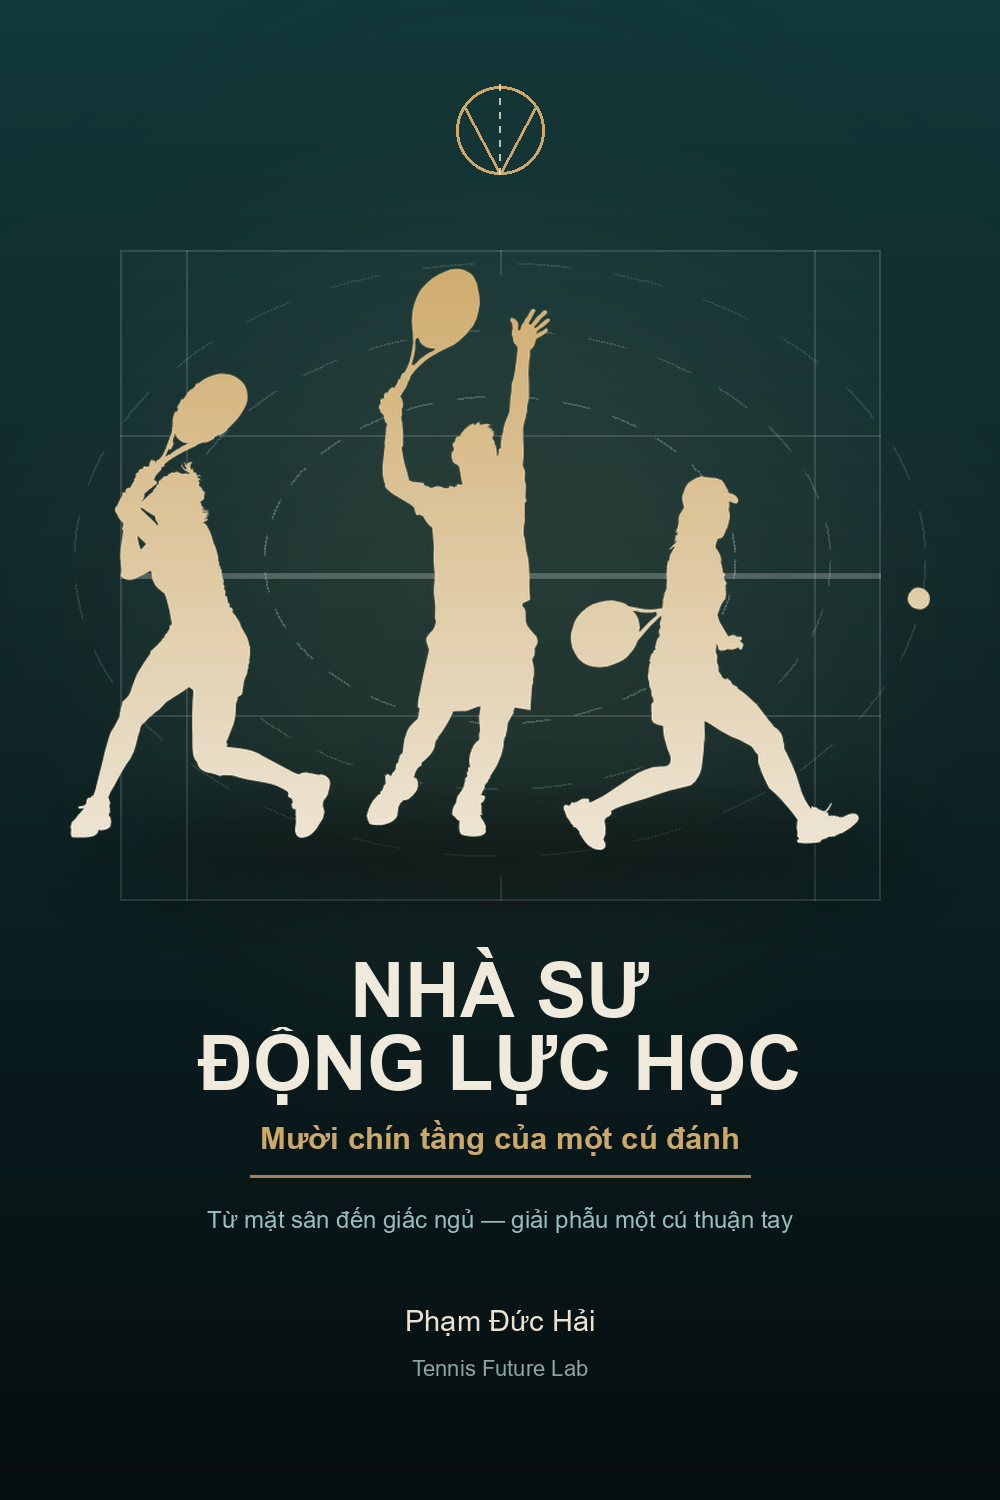
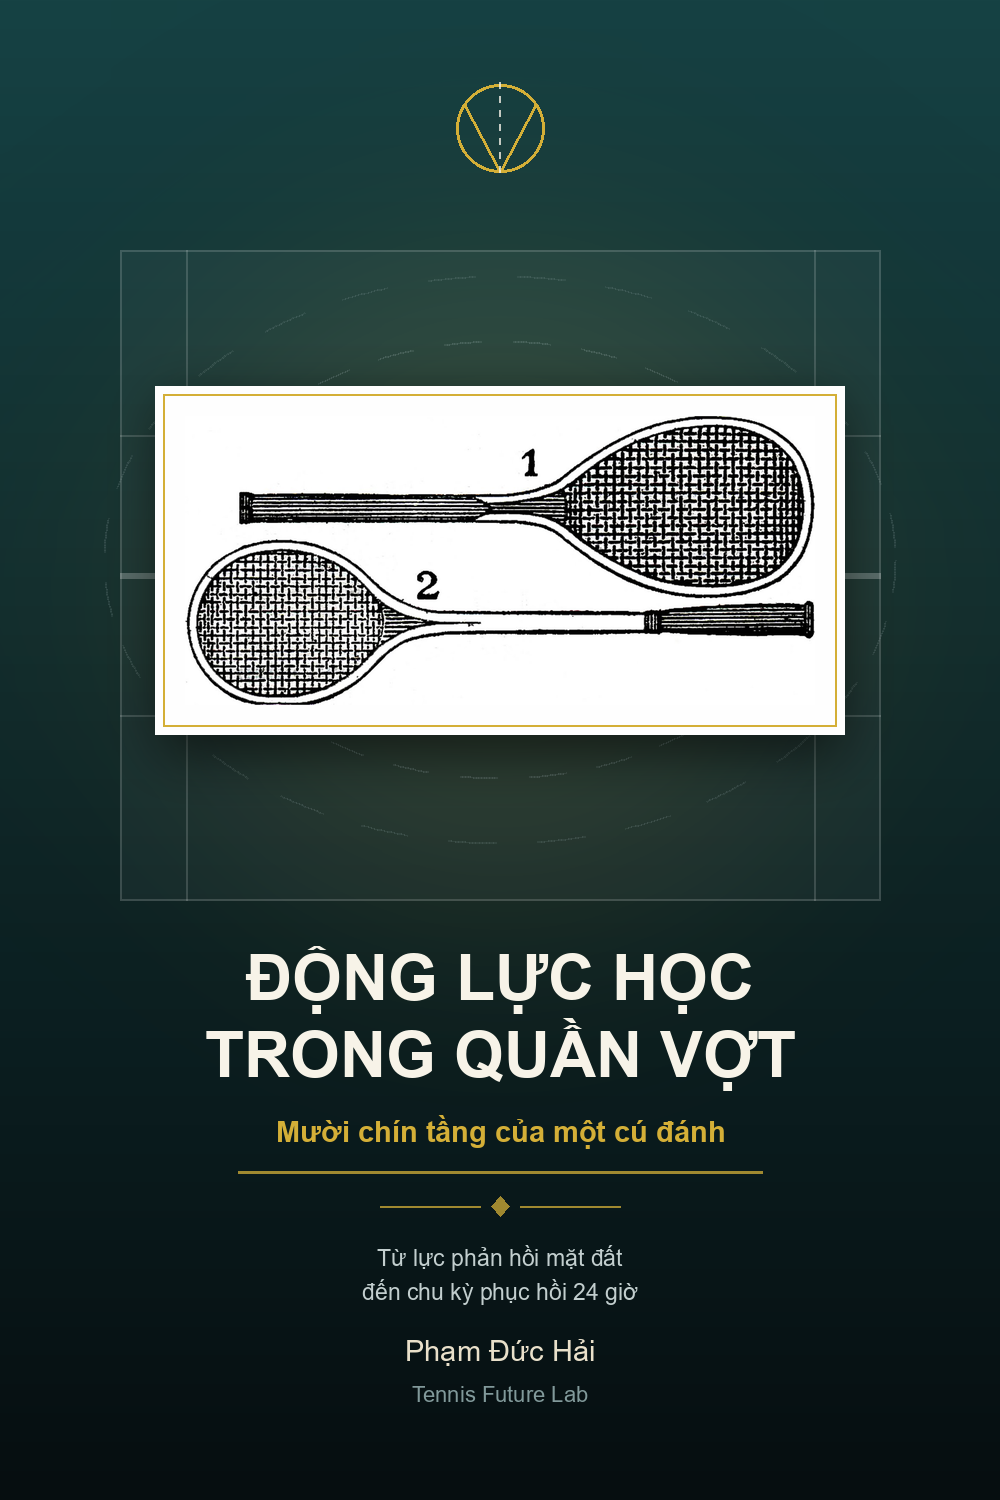
Retitle #100 to 'Động Lực Học Trong Quần Vợt' + its own cover
The old title 'Nhà Sư Động Lực Học' was disliked. The display title is now
'Động Lực Học Trong Quần Vợt: Mười Chín Tầng Của Một Cú Đánh' in the <title>,
meta description, cover alt text, h1 and footer signature, and on the index
card. The 'nhà sư' metaphor stays in the body (glossary, Ch.15) because it is
content rather than the title; the slug and PDF filename are unchanged so no
existing link breaks.

Cover: a numbered racket study plate replaces the shared series clipart —
Tennis_Rackets_GraphicsFairy.jpg, The Graphics Fairy (public domain).

diff --git a/vi/books/index.html b/vi/books/index.html
@@ -954,7 +954,7 @@ inline-free rules.  Desktop (>860 px) is untouched.
         <h2 style="color: var(--primary); margin: 0; font-family: var(--font-heading); font-size: 1.85rem;">📚 Tủ Sách Chuyên Khảo Tennis Future Lab (4 Tác Phẩm)</h2>
         <span style="font-size: 0.88rem; color: #5b6572; font-weight: 600;">Bản Thảo Gốc · Biên Soạn Việt Ngữ · 4/4 Toàn Văn</span>
     </div>
-    <p style="margin: 0.9rem 0 0; color: #5b6572; font-size: 0.92rem; max-width: 78ch;">Bốn cuốn này không phải bản dịch. Chúng được viết trực tiếp bằng tiếng Việt, xuất phát từ một câu hỏi chung: nếu đã đọc hết thư viện tennis thế giới rồi, thì còn chỗ nào để nghĩ tiếp? <strong>Động Lực Học Không Gian</strong> đọc sân đấu như một trường xác suất — hình học phân giác, cửa sổ thời gian, sinh thái học chuyển động. <strong>Sân Thống Nhất</strong> đi theo hướng ngược lại, từ khoa học sống trở về nghệ thuật chơi. <strong>Thái Cực Quyền Ứng Dụng</strong> lấy nguyên lý nội gia để giải lại bài toán chấn thương và bền bỉ. <strong>Nhà Sư Động Lực Học</strong> là cuốn nặng nhất về kỹ thuật: mười chín tầng của một cú thuận tay, từ mặt sân đến giấc ngủ. Đọc riêng lẻ được; đọc cạnh nhau thì thành một lập trường.</p>
+    <p style="margin: 0.9rem 0 0; color: #5b6572; font-size: 0.92rem; max-width: 78ch;">Bốn cuốn này không phải bản dịch. Chúng được viết trực tiếp bằng tiếng Việt, xuất phát từ một câu hỏi chung: nếu đã đọc hết thư viện tennis thế giới rồi, thì còn chỗ nào để nghĩ tiếp? <strong>Động Lực Học Không Gian</strong> đọc sân đấu như một trường xác suất — hình học phân giác, cửa sổ thời gian, sinh thái học chuyển động. <strong>Sân Thống Nhất</strong> đi theo hướng ngược lại, từ khoa học sống trở về nghệ thuật chơi. <strong>Thái Cực Quyền Ứng Dụng</strong> lấy nguyên lý nội gia để giải lại bài toán chấn thương và bền bỉ. <strong>Động Lực Học Trong Quần Vợt</strong> là cuốn nặng nhất về kỹ thuật: mười chín tầng của một cú thuận tay, từ mặt sân đến giấc ngủ. Đọc riêng lẻ được; đọc cạnh nhau thì thành một lập trường.</p>
 </div>
 
 <!-- BOOK: Vi Nhận Thức Cơ Thể: Rooting Và Dòng Chảy Năng Lượng Nội Tại -->
@@ -1045,7 +1045,7 @@ inline-free rules.  Desktop (>860 px) is untouched.
 
     </article>
 
-<!-- BOOK: Nhà Sư Động Lực Học: Mười Chín Tầng Của Một Cú Đánh -->
+<!-- BOOK: Động Lực Học Trong Quần Vợt: Mười Chín Tầng Của Một Cú Đánh -->
 
 <article class="book-card-horizontal">
 
@@ -1053,7 +1053,7 @@ inline-free rules.  Desktop (>860 px) is untouched.
 
       <a href="100_nha_su_dong_luc_hoc_vi.html">
 
-        <img src="100_nha_su_dong_luc_hoc_assets/cover.png" alt="Bìa sách Nhà Sư Động Lực Học: Mười Chín Tầng Của Một Cú Đánh">
+        <img src="100_nha_su_dong_luc_hoc_assets/cover.png" alt="Bìa sách Động Lực Học Trong Quần Vợt: Mười Chín Tầng Của Một Cú Đánh">
 
       </a>
 
@@ -1063,7 +1063,7 @@ inline-free rules.  Desktop (>860 px) is untouched.
 
       <span class="book-meta-tag">100 · Phạm Đức Hải (2026) · Tái biên soạn</span>
 
-      <h3 class="book-card-title">Nhà Sư Động Lực Học: Mười Chín Tầng Của Một Cú Đánh</h3>
+      <h3 class="book-card-title">Động Lực Học Trong Quần Vợt: Mười Chín Tầng Của Một Cú Đánh</h3>
 
       <div class="book-card-authors">
 

diff --git a/vi/books/100_nha_su_dong_luc_hoc_vi.html b/vi/books/100_nha_su_dong_luc_hoc_vi.html
@@ -3,8 +3,8 @@
 <head>
 <meta charset="utf-8">
 <meta name="viewport" content="width=device-width,initial-scale=1">
-<title>Nhà Sư Động Lực Học — Mười chín tầng của một cú đánh</title>
-<meta name="description" content="Nhà Sư Động Lực Học: Mười chín tầng của một cú đánh. Từ mặt sân đến giấc ngủ — giải phẫu một cú thuận tay.">
+<title>Động Lực Học Trong Quần Vợt — Mười chín tầng của một cú đánh</title>
+<meta name="description" content="Động Lực Học Trong Quần Vợt: Mười chín tầng của một cú đánh. Từ mặt sân đến giấc ngủ — giải phẫu một cú thuận tay.">
 <meta name="author" content="Phạm Đức Hải">
 <style>
 .tcq-book{
@@ -90,8 +90,8 @@ body.dark-mode .tcq-book strong{color:var(--tcq-ink) !important;}
 <div class="tcq-book">
 <div class="wrap">
 <header class="cover">
-  <img class="cover-art" src="100_nha_su_dong_luc_hoc_assets/cover.png" alt="Bìa sách Nhà Sư Động Lực Học — Mười chín tầng của một cú đánh">
-  <h1 class="sr-only">Nhà Sư Động Lực Học — Mười chín tầng của một cú đánh</h1>
+  <img class="cover-art" src="100_nha_su_dong_luc_hoc_assets/cover.png" alt="Bìa sách Động Lực Học Trong Quần Vợt — Mười chín tầng của một cú đánh">
+  <h1 class="sr-only">Động Lực Học Trong Quần Vợt — Mười chín tầng của một cú đánh</h1>
   <div class="kicker">Tennis Future Lab · Chuyên khảo</div>
   <div class="by">Phạm Đức Hải · Tennis Future Lab</div>
 </header>
@@ -2904,7 +2904,7 @@ body.dark-mode .tcq-book strong{color:var(--tcq-ink) !important;}
 <p><strong>Cài đặt.</strong> Cách gọi hình ảnh cho những gì xảy ra trong giấc ngủ: buổi tập là một yêu cầu, và giấc ngủ là lúc yêu cầu đó được cài vào phần cứng.</p>
 </section>
 </main>
-<footer class="end"><div class="sig">NHÀ SƯ ĐỘNG LỰC HỌC</div><div>Phạm Đức Hải · Tennis Future Lab</div><div>Cơ thể học cách làm việc. Rồi cái đầu học cách im lặng.</div></footer>
+<footer class="end"><div class="sig">ĐỘNG LỰC HỌC TRONG QUẦN VỢT</div><div>Phạm Đức Hải · Tennis Future Lab</div><div>Cơ thể học cách làm việc. Rồi cái đầu học cách im lặng.</div></footer>
 </div>
 </div>
 </body>
